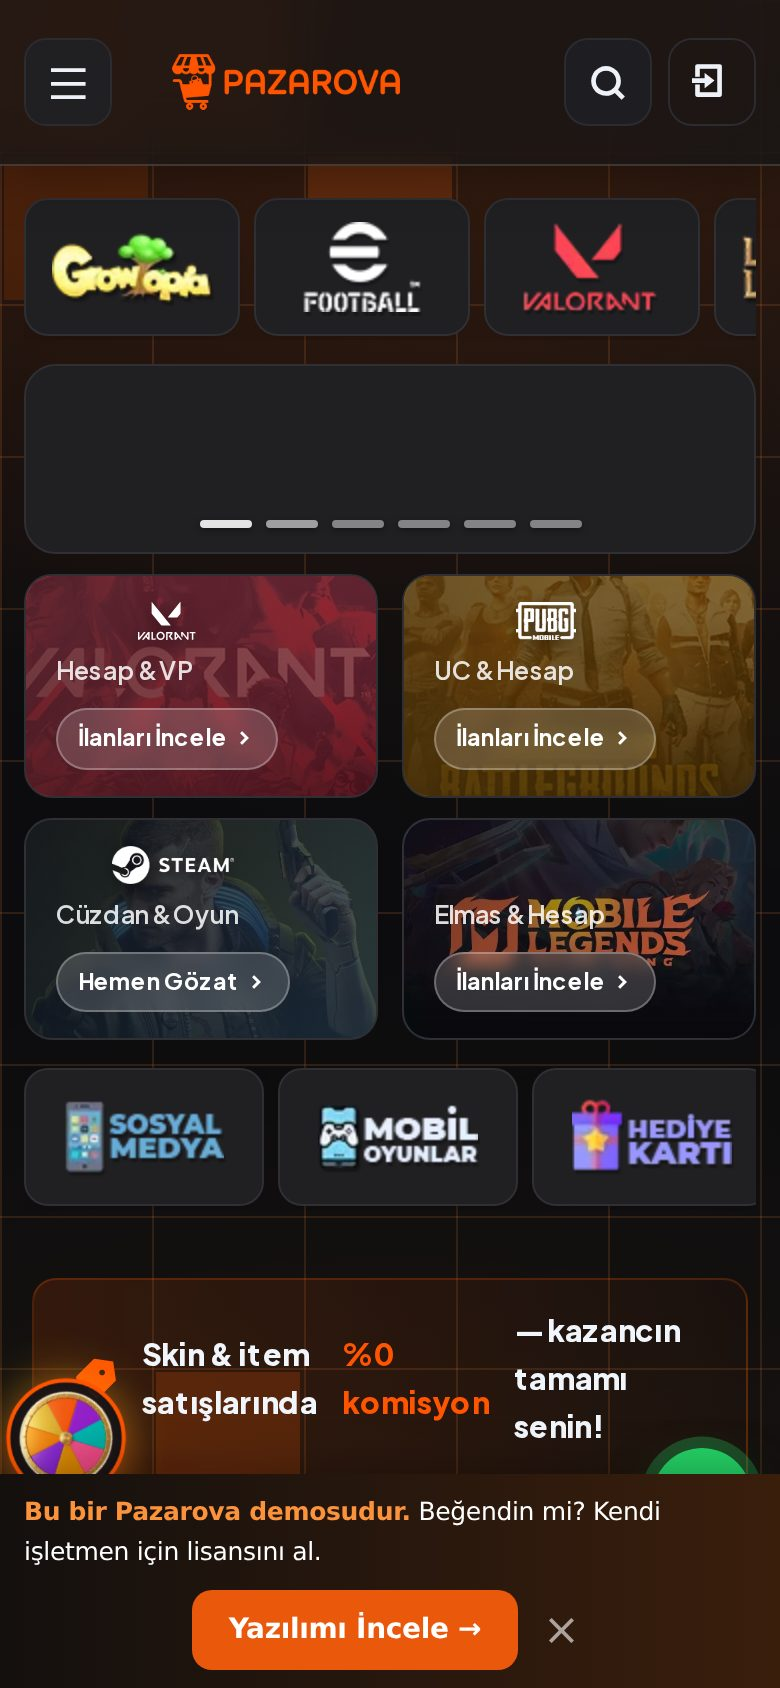
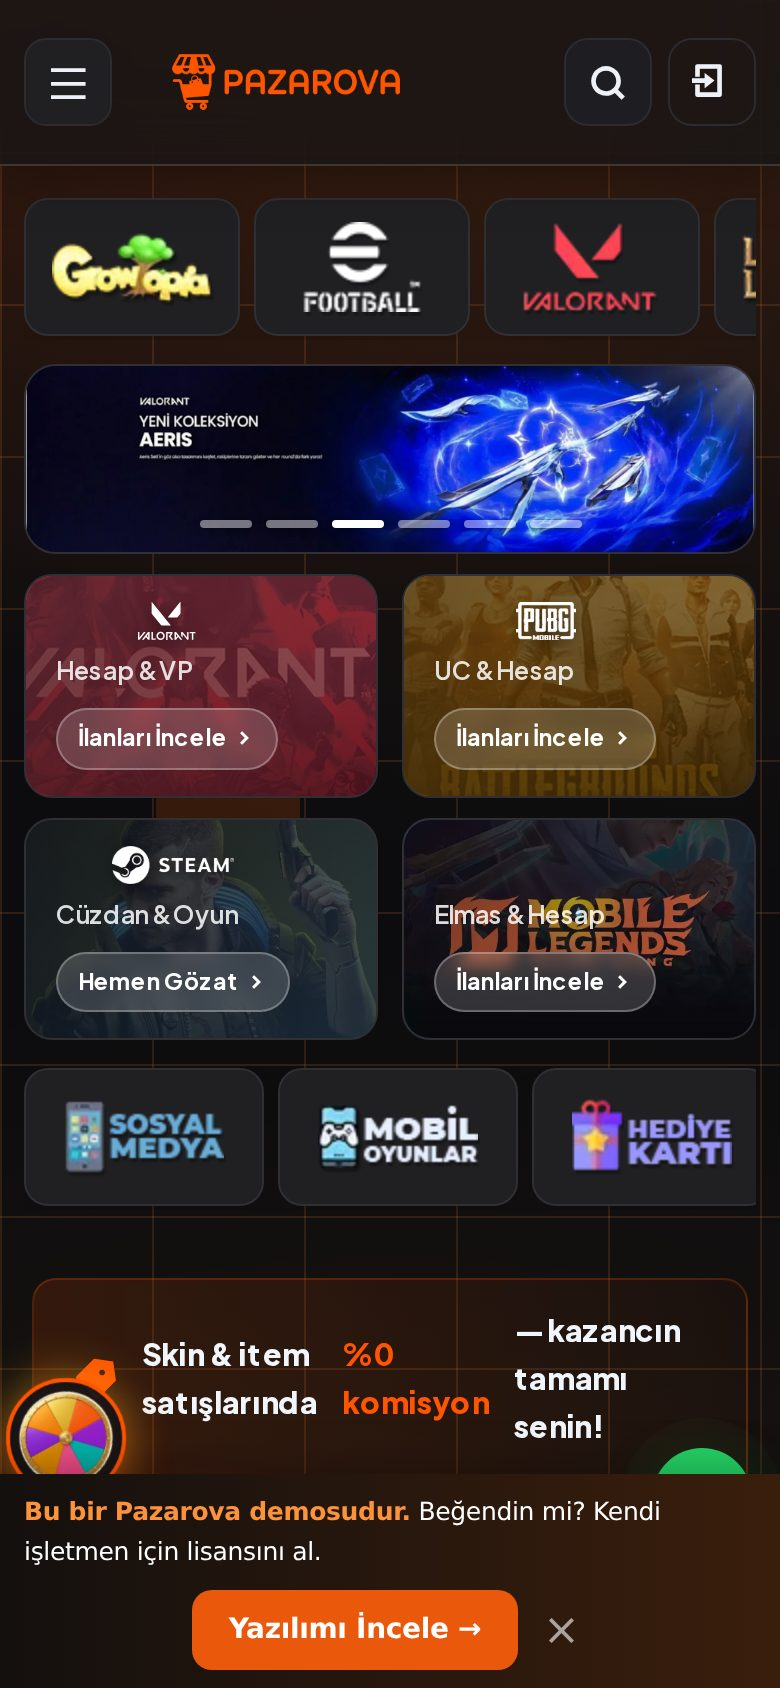
docs: admin panel görseli + mobil (slider yüklü) düzeltmesi

diff --git a/README.md b/README.md
@@ -40,6 +40,9 @@
 |---|---|
 | ![Sepet](screenshots/07-sepet.jpg) | <img src="screenshots/08-mobil.jpg" width="240"> |
 
+### 🛠 Yönetim Paneli (Admin)
+![Admin panel](screenshots/09-admin-panel.jpg)
+
 ---
 
 ## ⭐ Öne Çıkan Özellikler
